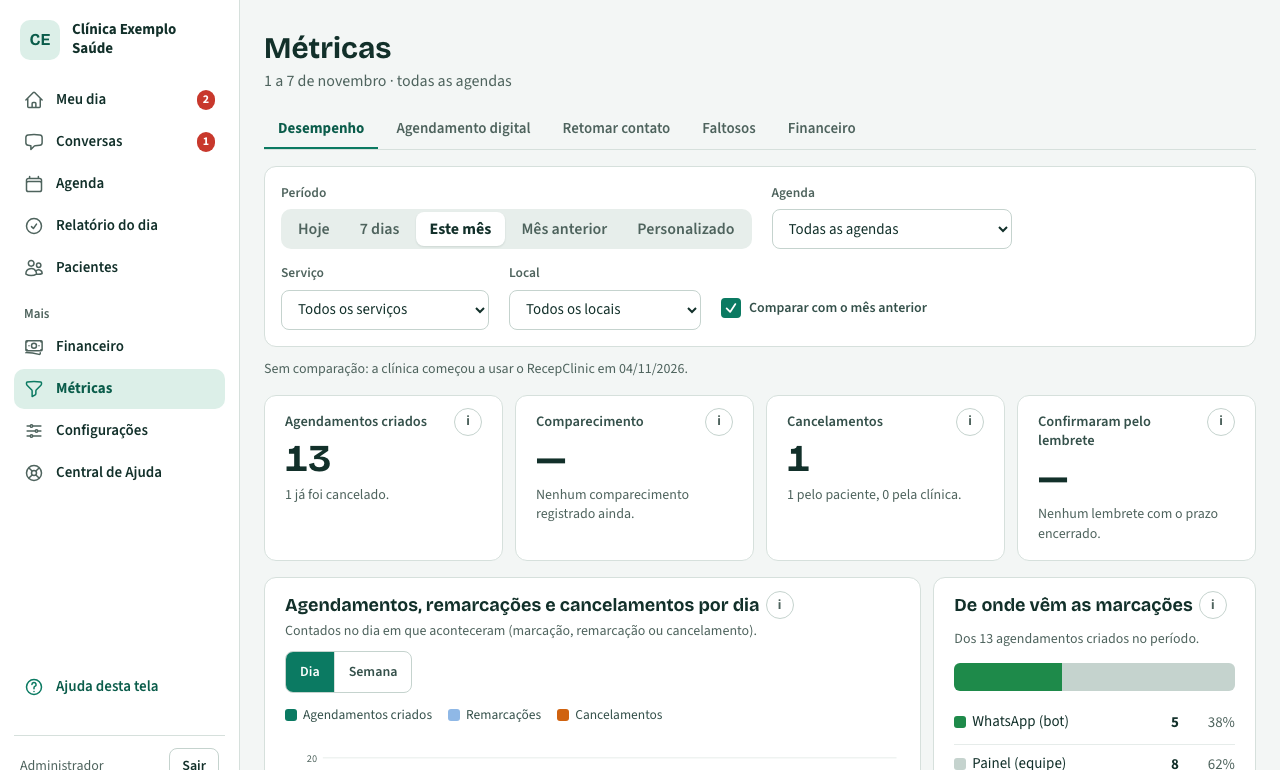
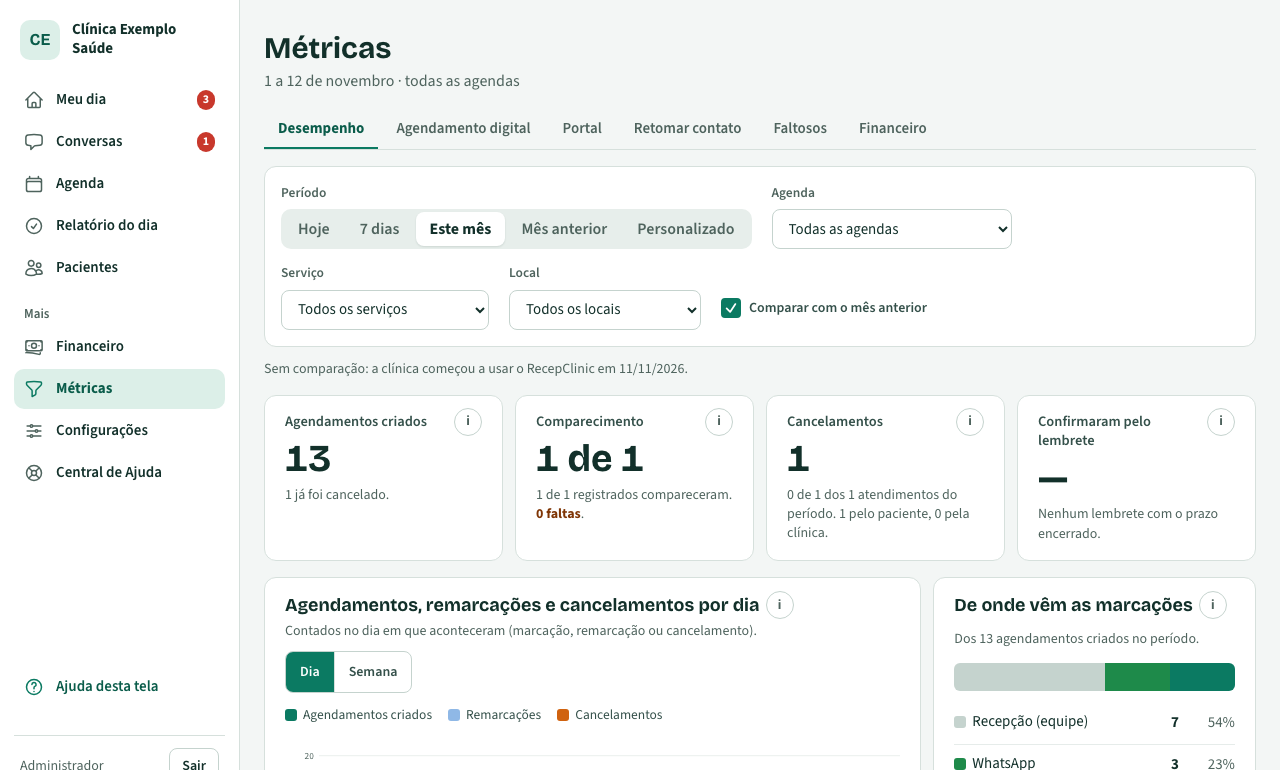
Ajuda: recapturadas as telas conversas, metricas e config-profissionais (fila esvaziada)

diff --git a/docs/capturas-pendentes.md b/docs/capturas-pendentes.md
@@ -9,6 +9,4 @@ a captura e o motivo, avisar o cliente no fim da etapa e esperar a autorização
 
 ## Pendentes
 
-- `conversas` — filtro "Aguardando" com contador, aguardando primeiro e "Com quem ele já consulta" no painel (12/11/2026)
-- `config-profissionais` — o cadastro do profissional ganhou o bloco "Link de agendamento" (com o Portal) (12/11/2026)
-- `metricas` — o bloco "De onde vêm as marcações" passou a ser Recepção, WhatsApp e Link do portal, com o detalhe do link; aba nova "Portal" (12/11/2026)
+(nenhuma)
